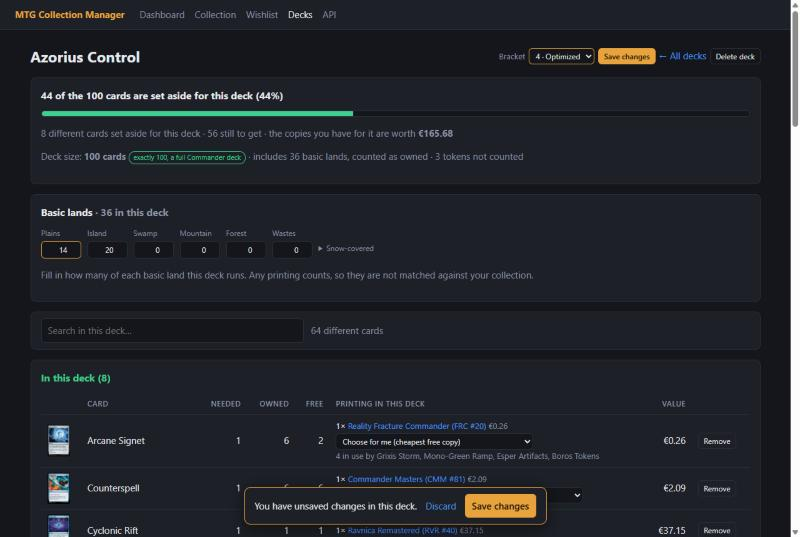
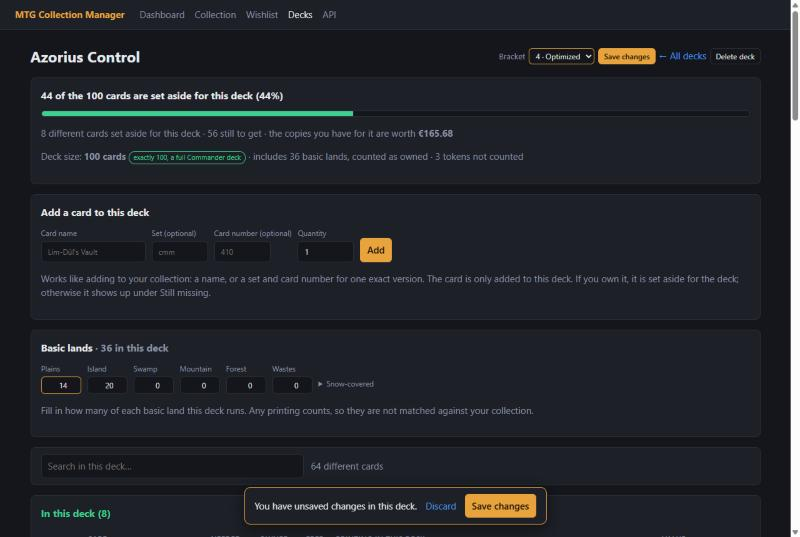
Add cards to a saved deck
A deck page has an "Add a card" form that works like the one in the
collection: a name, or a set and collector number for one exact version.
A card that is already in the deck gets more copies, a basic land goes to
the deck's land counts, and when a set is given and that printing is in
the collection, the deck uses that printing. The collection itself is
not changed. POST /api/decks/{id}/cards does the same.

Refresh the deck screenshots in the README.

diff --git a/app/templates/deck.html b/app/templates/deck.html
@@ -180,6 +180,19 @@
 
 {% if deck %}
 <div class="panel">
+  <h2>Add a card to this deck</h2>
+  <form class="row" method="post" action="/decks/{{ deck.id }}/cards" data-keep-scroll>
+    <label>Card name<input name="name" placeholder="Lim-Dûl's Vault"></label>
+    <label>Set (optional)<input name="set_code" class="narrow" placeholder="cmm"></label>
+    <label>Card number (optional)<input name="collector_number" class="narrow" placeholder="410"></label>
+    <label>Quantity<input name="quantity" type="number" min="1" value="1"></label>
+    <button>Add</button>
+  </form>
+  <p class="muted">Works like adding to your collection: a name, or a set and card number for one exact version.
+    The card is only added to this deck. If you own it, it is set aside for the deck; otherwise it shows up under Still missing.</p>
+</div>
+
+<div class="panel">
   <h2>Basic lands <span class="muted">· {{ basics }} in this deck</span></h2>
   <div class="row">
     {% for land in basic_names[:6] %}

diff --git a/tests/test_decks.py b/tests/test_decks.py
@@ -17,6 +17,7 @@ from app.services.decks import (
     delete_deck,
 )
 from app.services.wishlist import wishlist_rows
+from tests.conftest import scryfall_json
 
 DECKLIST = """
 // Commander
@@ -653,3 +654,66 @@ def test_basic_lands_count_towards_the_deck_size(client):
     checked = client.post("/deck", data={"decklist": decklist, "action": "check"}).text
     # The only Sol Ring is in the saved deck now, so a second deck gets the 36 lands and nothing else.
     assert "You have 36 of the 100 cards for this deck available (36%)" in checked
+
+
+def test_add_cards_to_a_saved_deck(client):
+    client.post("/api/collection", json={"set_code": "cmm", "collector_number": "410"})  # the pricier Sol Ring
+    client.post("/api/collection", json={"name": "Sol Ring", "set_code": "cmm"})
+    deck = client.post("/api/decks", json={"name": "Ramp", "decklist": "1 Fire // Ice"}).json()
+    url = f"/decks/{deck['id']}/cards"
+
+    page = client.get(f"/decks/{deck['id']}").text
+    assert f'action="{url}"' in page and "Add a card to this deck" in page
+
+    def cards():
+        detail = client.get(f"/api/decks/{deck['id']}").json()
+        return {c["name"]: c for c in detail["cards"]}, detail
+
+    # By name: a card you own goes straight into "In this deck".
+    added = client.post(url, data={"name": "Sol Ring", "quantity": "1"})
+    assert "Added 1× Sol Ring to this deck" in added.text and "In this deck (1)" in added.text
+    by_name, detail = cards()
+    assert (by_name["Sol Ring"]["missing"], by_name["Sol Ring"]["chosen_collection_entry_id"]) == (0, None)
+    assert detail["deck_size"] == 2
+
+    # A card you do not own lands under "Still missing"; a typo is corrected by Scryfall.
+    assert "Added 1× Lim-Dûl&#39;s Vault to this deck" in client.post(url, data={"name": "Lim-Dûl"}).text
+    assert cards()[0]["Lim-Dûl's Vault"]["missing"] == 1
+
+    # The same card again adds copies instead of a second line, also by one of its faces.
+    again = client.post(url, data={"name": "Fire // Ice", "quantity": "2"})
+    assert "Added 2× Fire // Ice to this deck (now 3 in this deck)" in again.text
+    assert cards()[0]["Fire // Ice"]["needed"] == 3 and len(cards()[0]) == 3
+
+    # By set + card number: that exact printing, if you own it, is the one the deck uses.
+    client.post(f"/api/decks/{deck['id']}/cards", json={"set_code": "cmm", "collector_number": "410"})
+    sol = cards()[0]["Sol Ring"]
+    chosen = next(p for p in sol["printings"] if p["id"] == sol["chosen_collection_entry_id"])
+    assert (sol["needed"], chosen["card"]["collector_number"]) == (2, "410")
+    assert {u["printing"]["card"]["collector_number"] for u in sol["using"]} == {"1", "410"}  # needs both copies now
+
+    # A basic land goes to the land counts, not to the card list.
+    client.post(url, data={"name": "Forest", "quantity": "8"})  # not in the fake Scryfall -> not found
+    assert "Forest" not in cards()[0]
+
+    assert "Card not found" in client.post(url, data={"name": "Definitely Not A Card"}).text
+    assert "Fill in a card name" in client.post(url, data={"name": ""}).text
+    assert "Fill in the set" in client.post(url, data={"collector_number": "410"}).text
+    api = f"/api/decks/{deck['id']}/cards"
+    assert client.post(api, json={"name": "Definitely Not A Card"}).status_code == 404
+    assert client.post(api, json={}).status_code == 400
+    assert client.post(api, json={"name": "Sol Ring", "quantity": 0}).status_code == 422
+    assert client.post("/api/decks/9999/cards", json={"name": "Sol Ring"}).status_code == 404
+    assert len(client.get("/api/collection").json()["items"]) == 2  # the collection itself is untouched
+
+
+async def test_adding_a_basic_land_to_a_deck_counts_it_as_a_land(session, fake_scryfall, scryfall):
+    from app.services.decks import add_card, deck_left_out
+
+    fake_scryfall.cards.append(scryfall_json("Forest", "id-forest", "blb", eur="0.10"))
+    deck = save_deck(session, "Green", [DeckCard("Sol Ring", 1)])
+    message = await add_card(session, scryfall, deck, "forest", quantity=8)
+    assert message == "Added 8× Forest to the basic lands of this deck"
+    await add_card(session, scryfall, deck, "Forest", quantity=2)
+    assert deck_left_out(session, deck).basics == {"Forest": 10}
+    assert [row.name for row in saved_deck_rows(session, deck)] == ["Sol Ring"]

diff --git a/app/services/collection.py b/app/services/collection.py
@@ -7,7 +7,7 @@ from sqlmodel import Session, select
 
 from app.csv_import import ImportRow
 from app.models import Card, CollectionEntry
-from app.scryfall import InvalidCardRequest, ScryfallClient
+from app.scryfall import InvalidCardRequest, ScryfallCard, ScryfallClient
 from app.services.pricing import SCRYFALL, latest_snapshots, price_for, price_origin, store_scryfall_card
 
 
@@ -96,6 +96,25 @@ def collection_value(rows: list[CollectionRow]) -> float:
     return round(sum(row.total_price or 0.0 for row in rows), 2)
 
 
+async def find_card(
+    scryfall: ScryfallClient, name: str, set_code: str | None = None, collector_number: str | None = None
+) -> ScryfallCard:
+    """Look a card up the way the "Add a card" forms describe it: by name, or by set + collector number."""
+    if collector_number:
+        if not set_code:
+            raise InvalidCardRequest("Fill in the set as well when you use a card number")
+        data = await scryfall.get_by_number(set_code, collector_number)
+        # A name is optional here, but if it is given it has to be the card that number points to.
+        if name and _fold(name) not in _fold(data.name):
+            raise InvalidCardRequest(
+                f"{set_code.upper()} #{collector_number} is {data.name}, not {name}. Check the set and number."
+            )
+        return data
+    if name:
+        return await scryfall.get_by_name(name, set_code)
+    raise InvalidCardRequest("Fill in a card name, or a set and card number")
+
+
 async def add_card_by_name(
     session: Session,
     scryfall: ScryfallClient,
@@ -106,19 +125,7 @@ async def add_card_by_name(
     collector_number: str | None = None,
 ) -> CollectionEntry:
     """Add a card by name, or one exact printing by set code + collector number."""
-    if collector_number:
-        if not set_code:
-            raise InvalidCardRequest("Fill in the set as well when you use a card number")
-        data = await scryfall.get_by_number(set_code, collector_number)
-        # A name is optional here, but if it is given it has to be the card that number points to.
-        if name and _fold(name) not in _fold(data.name):
-            raise InvalidCardRequest(
-                f"{set_code.upper()} #{collector_number} is {data.name}, not {name}. Check the set and number."
-            )
-    elif name:
-        data = await scryfall.get_by_name(name, set_code)
-    else:
-        raise InvalidCardRequest("Fill in a card name, or a set and card number")
+    data = await find_card(scryfall, name, set_code, collector_number)
     await scryfall.fill_missing_prices([data], {data.scryfall_id} if is_foil else set())
     return add_to_collection(session, store_scryfall_card(session, data), quantity, is_foil)
 

diff --git a/app/services/decks.py b/app/services/decks.py
@@ -20,7 +20,7 @@ from app.models import (
     WishlistEntry,
 )
 from app.scryfall import CardRef, ScryfallClient, name_key
-from app.services.collection import CollectionRow, collection_rows
+from app.services.collection import CollectionRow, collection_rows, find_card
 from app.services.pricing import store_scryfall_card
 from app.services.wishlist import add_to_wishlist
 
@@ -486,6 +486,53 @@ def set_basic_lands(session: Session, deck: Deck, counts: dict[str, object]) -> 
         session.add(DeckBasicLand(deck_id=deck.id, name=land, quantity=quantity))
     session.flush()
     return basics
+
+
+async def add_card(
+    session: Session,
+    scryfall: ScryfallClient,
+    deck: Deck,
+    name: str,
+    set_code: str | None = None,
+    collector_number: str | None = None,
+    quantity: int = 1,
+) -> str:
+    """Add a card to a saved deck, looked up like in the collection; returns a message for the user.
+
+    A card that is already in the deck gets more copies; a basic land goes to the
+    deck's land counts. When a set is given and that printing is in the collection,
+    the deck is set to use that printing.
+    """
+    if quantity < 1:
+        raise DeckError("Add at least one copy")
+    data = await find_card(scryfall, name, set_code, collector_number)
+
+    if name_key(data.name) in BASIC_LANDS:
+        land = BASIC_LANDS[name_key(data.name)]
+        counts = dict(deck_left_out(session, deck).basics)
+        counts[land] = counts.get(land, 0) + quantity
+        set_basic_lands(session, deck, counts)
+        return f"Added {quantity}× {land} to the basic lands of this deck"
+
+    entries = session.exec(select(DeckEntry).where(DeckEntry.deck_id == deck.id)).all()
+    entry = next((e for e in entries if _names(e.name) & _names(data.name)), None)
+    if entry is None:
+        entry = DeckEntry(deck_id=deck.id, name=data.name, quantity=0)
+    entry.quantity += quantity
+    session.add(entry)
+    session.flush()
+
+    if set_code:
+        owned = session.exec(
+            select(CollectionEntry)
+            .join(Card, CollectionEntry.card_id == Card.id)
+            .where(Card.scryfall_id == data.scryfall_id)
+            .order_by(CollectionEntry.is_foil)
+        ).first()
+        if owned is not None:
+            choose_printing(session, deck, entry.id, owned.id)
+    total = f" (now {entry.quantity} in this deck)" if entry.quantity != quantity else ""
+    return f"Added {quantity}× {data.name} to this deck{total}"
 
 
 def set_assigned(session: Session, deck: Deck, entry_id: int, assigned: bool) -> DeckEntry:

diff --git a/app/routers/api.py b/app/routers/api.py
@@ -22,6 +22,7 @@ from app.schemas import (
     DeckDetailOut,
     DeckAssignedIn,
     DeckBracketIn,
+    DeckCardAdd,
     DeckOut,
     DeckPrintingIn,
     DeckSaveIn,
@@ -354,6 +355,30 @@ def choose_printing(
     try:
         decks.choose_printing(session, deck, entry_id, payload.collection_entry_id)
     except decks.DeckError as exc:
+        raise HTTPException(status_code=400, detail=str(exc)) from exc
+    session.commit()
+    return _deck_detail(session, deck)
+
+
+@router.post("/decks/{deck_id}/cards", response_model=DeckDetailOut, status_code=201)
+async def add_deck_card(
+    deck_id: int,
+    payload: DeckCardAdd,
+    session: Session = Depends(get_session),
+    scryfall: ScryfallClient = Depends(get_scryfall),
+):
+    """Add a card to a saved deck: by name, or by set + collector number for one exact printing."""
+    deck = _saved_deck(session, deck_id)
+    try:
+        await decks.add_card(
+            session, scryfall, deck, (payload.name or "").strip(), (payload.set_code or "").strip() or None,
+            (payload.collector_number or "").strip() or None, payload.quantity,
+        )
+    except ScryfallError as exc:
+        session.rollback()
+        raise _scryfall_http_error(exc) from exc
+    except decks.DeckError as exc:
+        session.rollback()
         raise HTTPException(status_code=400, detail=str(exc)) from exc
     session.commit()
     return _deck_detail(session, deck)

diff --git a/app/routers/pages.py b/app/routers/pages.py
@@ -394,6 +394,32 @@ def _basic_lands_from(form) -> dict[str, int]:
     )
 
 
+@router.post("/decks/{deck_id}/cards")
+async def saved_deck_add_card(
+    deck_id: int,
+    name: str = Form(""),
+    set_code: str = Form(""),
+    collector_number: str = Form(""),
+    quantity: int = Form(1),
+    session: Session = Depends(get_session),
+    scryfall: ScryfallClient = Depends(get_scryfall),
+):
+    """The "Add a card" form on a deck page; works like the one in the collection."""
+    deck = session.get(Deck, deck_id)
+    if deck is None:
+        return redirect("/deck", "Deck not found", error=True)
+    try:
+        message = await decks.add_card(
+            session, scryfall, deck, name.strip(), set_code.strip() or None,
+            collector_number.strip().lstrip("#") or None, max(1, quantity),
+        )
+    except (ScryfallError, decks.DeckError) as exc:
+        session.rollback()
+        return redirect(f"/decks/{deck_id}", str(exc), error=True)
+    session.commit()
+    return redirect(f"/decks/{deck_id}", message)
+
+
 @router.post("/decks/{deck_id}/save")
 async def saved_deck_save(deck_id: int, request: Request, session: Session = Depends(get_session)):
     """The "Save changes" button: bracket, basic lands and chosen printings together."""

diff --git a/app/schemas.py b/app/schemas.py
@@ -158,6 +158,14 @@ class DeckPickOut(BaseModel):
     printing: CollectionItemOut
 
 
+class DeckCardAdd(BaseModel):
+    # Either a name (optionally with a set), or a set + collector number, like adding to the collection.
+    name: str | None = None
+    set_code: str | None = None
+    collector_number: str | None = None
+    quantity: int = Field(default=1, ge=1)
+
+
 class DeckAssignedIn(BaseModel):
     # False takes your copies out of the deck (the card then counts as missing); True puts them back.
     assigned: bool

diff --git a/README.md b/README.md
@@ -31,7 +31,9 @@ price.
 
 ![The saved decks filtered on bracket 3: two of the five decks are left](docs/decks-filter.jpg)
 
-![A saved deck of exactly 100 cards: its bracket, deck size, basic lands per land, search, and the printing each card uses](docs/deck.jpg)
+![A saved deck of exactly 100 cards: its bracket, deck size, adding a card, and basic lands per land](docs/deck.jpg)
+
+![The cards of a deck: the printing each card uses, a choice of printing where you own several, and Remove](docs/deck-cards.jpg)
 
 ![Unsaved changes in a deck: the changed fields are highlighted and one button saves them all](docs/deck-unsaved.jpg)
 
@@ -77,6 +79,7 @@ price.
 - Deck size: basic lands count towards the cards of a deck, so you can see at a glance whether a Commander deck has exactly 100 cards, or how many it is short or over
 - Basic lands per deck: fill in how many of each basic land a deck runs, whatever the printing. Imported decks start with the numbers from the list, and older decks can move their lands over in one click
 - Deck randomizer: can't decide what to play? Pick a random deck, or a different one for every player at the table, optionally only from one bracket or only decks you can build right now
+- Add cards to a saved deck the same way as to the collection: by name, or by set and card number for one exact version
 - Take a card out of a deck: "Remove" moves it from "In this deck" to "Still missing" and frees your copies for other decks; "Put back" undoes it
 - Search inside a deck on card name or set
 - One "Save changes" button per deck: bracket, basic lands and chosen printings are edited freely and stored together, with a reminder while there are unsaved changes
@@ -162,6 +165,7 @@ product page. Two things to know:
 | `GET` | `/api/decks/random` | Pick random decks (`count`, `bracket`, `complete_only`) |
 | `GET` / `DELETE` | `/api/decks/{id}` | A saved deck with its cards / delete it and free its cards |
 | `PUT` | `/api/decks/{id}/cards/{entry_id}/printing` | Choose which printing a deck uses for a card |
+| `POST` | `/api/decks/{id}/cards` | Add a card to a saved deck |
 | `PUT` | `/api/decks/{id}/cards/{entry_id}/assigned` | Take your copies of a card out of a deck, or put them back |
 | `PUT` | `/api/decks/{id}/basic-lands` | Set how many of each basic land a deck runs |
 | `PUT` | `/api/decks/{id}/bracket` | Set or clear the Commander bracket of a deck |
